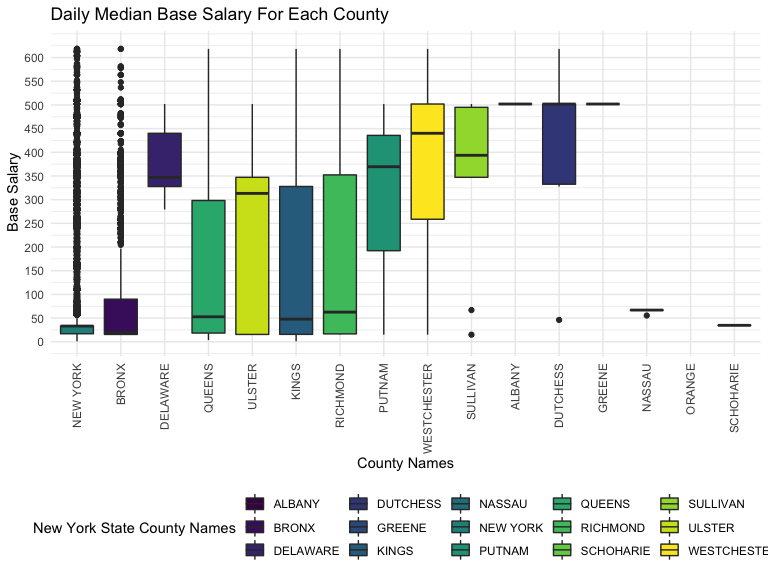
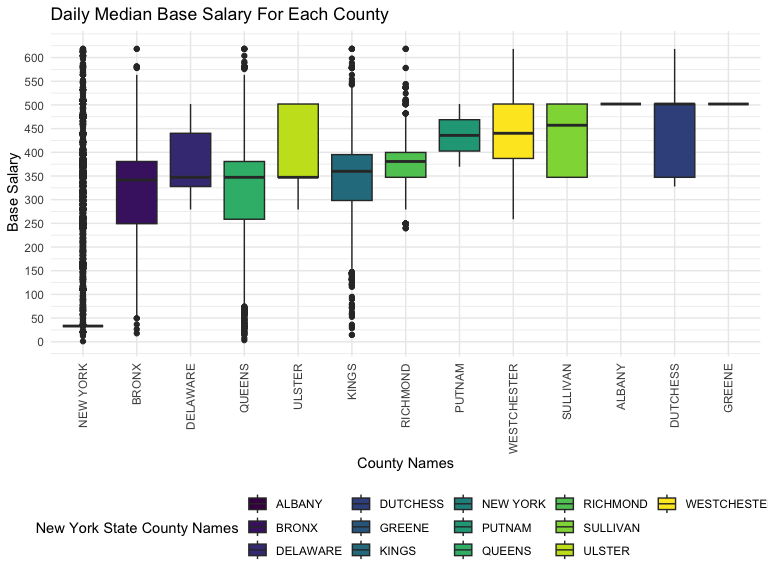
nergui's code is commited

diff --git a/nys_salary_project.md b/nys_salary_project.md
@@ -9,9 +9,9 @@ library(tidyverse)
 ```
 
     ## ── Attaching packages ─────────────────────────────────────── tidyverse 1.3.2 ──
-    ## ✔ ggplot2 3.3.6      ✔ purrr   0.3.4 
+    ## ✔ ggplot2 3.4.0      ✔ purrr   0.3.4 
     ## ✔ tibble  3.1.8      ✔ dplyr   1.0.10
-    ## ✔ tidyr   1.2.0      ✔ stringr 1.4.1 
+    ## ✔ tidyr   1.2.1      ✔ stringr 1.4.1 
     ## ✔ readr   2.1.2      ✔ forcats 0.5.2 
     ## ── Conflicts ────────────────────────────────────────── tidyverse_conflicts() ──
     ## ✖ dplyr::filter() masks stats::filter()
@@ -89,7 +89,7 @@ theme_set(theme_minimal() + theme(legend.position = "bottom"))
     ## ── Column specification ────────────────────────────────────────────────────────
     ## Delimiter: ","
     ## chr (9): Agency Name, Last Name, First Name, Mid Init, Agency Start Date, Wo...
-    ## dbl (8): Fiscal Year, Payroll Number, Base Salary, Regular Hours, Regular Gr...
+    ## dbl (2): Fiscal Year, Payroll Number
     ## 
     ## ℹ Use `spec()` to retrieve the full column specification for this data.
     ## ℹ Specify the column types or set `show_col_types = FALSE` to quiet this message.
@@ -557,19 +557,19 @@ number_job_titles_plot
 
 <img src="nys_salary_project_files/figure-gfm/unnamed-chunk-9-1.png" width="90%" />
 
-# Nergui’s Visualization
-
-# First boxplot for overtime pay by county
+# Mean Overtime Paid By New York State Counties Plot
 
 ``` r
-overtime_tibble = payroll_data %>% 
+overtime_tibble = 
+    payroll_data %>% 
     group_by(county_name) %>% 
     summarise(median_total_ot_paid = median(total_ot_paid))
-    
+
 median_ot_paid_plot = 
     payroll_data |> 
     left_join(overtime_tibble, by = "county_name") |> 
-    ggplot(aes(x = reorder(county_name, median_total_ot_paid ), y = total_ot_paid, fill = county_name)) +
+    ggplot(aes(x = reorder(county_name, median_total_ot_paid ), y = total_ot_paid,
+               fill = county_name)) +
     geom_boxplot() +
      scale_y_continuous(
       labels = scales::comma,
@@ -580,7 +580,8 @@ median_ot_paid_plot =
     y = "Total Overtime Paid",
     title = "Total Overtime Paid By Each County",
     fill = "New York State County Names"
-  ) + theme(axis.text.x = element_text(angle = 90, vjust = 0.5, hjust = 1)) 
+  ) + 
+    theme(axis.text.x = element_text(angle = 90, vjust = 0.5, hjust = 1)) 
 
 
 median_ot_paid_plot
@@ -588,7 +589,7 @@ median_ot_paid_plot
 
 <img src="nys_salary_project_files/figure-gfm/unnamed-chunk-10-1.png" width="90%" />
 
-# Second Boxplot for Median base salary by pay basis by county (Annually)
+# Median Base Salary By Pay basis By New York State Counties (Annually) Plot
 
 ``` r
 pay_basis_tibble = 
@@ -599,8 +600,10 @@ pay_basis_tibble =
 
 Median_base_salary_plot_annually =
     payroll_data %>%
+    filter(pay_basis == "Annually") |> 
     left_join(pay_basis_tibble, by = "county_name") %>%
-    ggplot(aes(x = reorder(county_name, median_base_salary), y = base_salary, fill = county_name)) +
+    ggplot(aes(x = reorder(county_name, median_base_salary), y = base_salary, 
+               fill = county_name)) +
     geom_boxplot() +
     scale_y_continuous(
       labels = scales::comma,
@@ -618,7 +621,7 @@ Median_base_salary_plot_annually
 
 <img src="nys_salary_project_files/figure-gfm/unnamed-chunk-11-1.png" width="90%" />
 
-# Daily
+# Median Base Salary By Pay basis By New York State Counties (Daily) Plot
 
 ``` r
 pay_basis_daily_tibble = 
@@ -629,8 +632,10 @@ pay_basis_daily_tibble =
 
 Median_base_salary_plot_daily =
     payroll_data %>%
+    filter(pay_basis == "Daily") |> 
     left_join(pay_basis_daily_tibble,  by = "county_name") %>%
-    ggplot(aes(x = reorder(county_name, median_base_salary_daily) , y = base_salary, fill = county_name)) +
+    ggplot(aes(x = reorder(county_name, median_base_salary_daily) , 
+               y = base_salary, fill = county_name)) +
     geom_boxplot() +
     scale_y_continuous(
       labels = scales::comma,
@@ -648,7 +653,7 @@ Median_base_salary_plot_daily
 
 <img src="nys_salary_project_files/figure-gfm/unnamed-chunk-12-1.png" width="90%" />
 
-# Hourly
+# Median Base Salary By Pay basis By New York State Counties (Hourly) Plot
 
 ``` r
 pay_basis_hourly_tibble= 
@@ -659,8 +664,10 @@ pay_basis_hourly_tibble=
 
 Median_base_salary_plot_hourly =
     payroll_data %>%
+    filter(pay_basis == "Hourly") |> 
     left_join(pay_basis_hourly_tibble,  by = "county_name") %>%
-    ggplot(aes(x = reorder(county_name, median_base_salary_hourly), y = base_salary, fill = county_name)) +
+    ggplot(aes(x = reorder(county_name, median_base_salary_hourly), 
+               y = base_salary, fill = county_name)) +
     geom_boxplot() +
     scale_y_continuous(
       labels = scales::comma,
@@ -678,7 +685,7 @@ Median_base_salary_plot_hourly
 
 <img src="nys_salary_project_files/figure-gfm/unnamed-chunk-13-1.png" width="90%" />
 
-# Prorated
+# Median Base Salary By Pay basis By New York State Counties (Prorated) Plot
 
 ``` r
 pay_basis_prorated_tibble = 
@@ -689,8 +696,10 @@ pay_basis_prorated_tibble =
     
 Median_base_salary_plot_prorated =
     payroll_data %>%
+    filter(pay_basis == "Prorated Annual") |>
     left_join(pay_basis_prorated_tibble,  by = "county_name") %>%   
-    ggplot(aes(x = reorder(county_name, median_base_salary_prorated), y = base_salary, fill = county_name)) +
+    ggplot(aes(x = reorder(county_name, median_base_salary_prorated), 
+               y = base_salary, fill = county_name)) +
     geom_boxplot() +
     scale_y_continuous(
       labels = scales::comma,
@@ -796,3 +805,99 @@ top_plot
 ```
 
 <img src="nys_salary_project_files/figure-gfm/unnamed-chunk-16-1.png" width="90%" />
+
+# Plot for Top 10 Job Titles Throughout the New York County
+
+``` r
+job_frequency_newyork =
+payroll_data %>%
+    filter(county_name == "NEW YORK") |> 
+    group_by(county_name, job_title) %>%
+    summarise(job_frequency = n()) %>%
+    arrange(desc(job_frequency)) %>%
+    ungroup()
+```
+
+    ## `summarise()` has grouped output by 'county_name'. You can override using the
+    ## `.groups` argument.
+
+``` r
+job_frequency_newyork_data = 
+    job_frequency_newyork %>%
+    top_n(job_frequency, n = 10) %>%
+    mutate(
+     job_title = recode(job_title, "TEACHER- PER SESSION" = "TEACHER PER SESSION"),
+     job_title = recode(job_title, "ANNUAL ED PARA" = "EDUCATION PARAPROFESSIONAL"),
+     job_title = recode(job_title, "TEACHER SPECIAL EDUCATION" = "SPECIAL EDUCATION TEACHER"),
+     job_title = recode(job_title, "TEACHER-GENERAL ED" = "GENERAL EDUCATION TEACHER"),
+     job_title = recode(job_title, "SUBSTITUTE ED PARA" = "SUBSTITUTE EDUCATION PARAPROFESSIONAL"),
+     job_title = recode(job_title, "F/T SCHOOL AIDE" = "SCHOOL AIDE"))
+    
+job_frequency_newyork_plot =
+    job_frequency_newyork_data %>%
+    ggplot(aes(x = reorder(job_title, job_frequency), y = job_frequency, fill = county_name)) +
+  geom_bar(position = "dodge", stat = "identity") + 
+    scale_y_continuous(
+      labels = scales::comma,
+    limits = c(0, 120000),
+    breaks = seq(0, 120000, by = 10000)) +
+  labs(
+    x = "Top 10 Job Titles",
+    y = "Frequency of Job Titles",
+    title = "The Top 10 Job Titles Held By Municipal Employees in New York County",
+    fill = "New York State County Names"
+  ) +
+  theme(axis.text.x = element_text(angle = 90, vjust = 0.5, hjust = 1)) 
+
+job_frequency_newyork_plot
+```
+
+<img src="nys_salary_project_files/figure-gfm/unnamed-chunk-17-1.png" width="90%" />
+
+# Plot for Top 10 Job Titles Throughout Albany County
+
+``` r
+job_frequency_albany =
+payroll_data %>%
+    filter(county_name == "ALBANY") |> 
+    group_by(county_name, job_title) %>%
+    summarise(job_frequency = n()) %>%
+    arrange(desc(job_frequency)) %>%
+    ungroup()
+```
+
+    ## `summarise()` has grouped output by 'county_name'. You can override using the
+    ## `.groups` argument.
+
+``` r
+job_frequency_albany_data = 
+    job_frequency_albany %>%
+    top_n(job_frequency, n = 10) %>%
+    mutate(
+     job_title = recode(job_title, "TEACHER- PER SESSION" = "TEACHER PER SESSION"),
+     job_title = recode(job_title, "ANNUAL ED PARA" = "EDUCATION PARAPROFESSIONAL"),
+     job_title = recode(job_title, "TEACHER SPECIAL EDUCATION" = "SPECIAL EDUCATION TEACHER"),
+     job_title = recode(job_title, "TEACHER-GENERAL ED" = "GENERAL EDUCATION TEACHER"),
+     job_title = recode(job_title, "SUBSTITUTE ED PARA" = "SUBSTITUTE EDUCATION PARAPROFESSIONAL"),
+     job_title = recode(job_title, "F/T SCHOOL AIDE" = "SCHOOL AIDE"))
+    
+job_frequency_albany_plot =
+    job_frequency_albany_data %>%
+    ggplot(aes(x = reorder(job_title, job_frequency), y = job_frequency, fill = county_name)) +
+  geom_bar(position = "dodge", stat = "identity") + 
+    scale_y_continuous(
+      labels = scales::comma,
+    limits = c(0, 5),
+    breaks = seq(0, 5, by = 1)) +
+  labs(
+    x = "Top 10 Job Titles",
+    y = "Frequency of Job Titles",
+    title = "The Top 10 Job Titles Held By Municipal Employeesin Albany County",
+    fill = "New York State County Names"
+  ) +
+  theme(axis.text.x = element_text(angle = 90, vjust = 0.5, hjust = 1)) 
+
+job_frequency_albany_plot
+```
+
+<img src="nys_salary_project_files/figure-gfm/unnamed-chunk-18-1.png" width="90%" />
